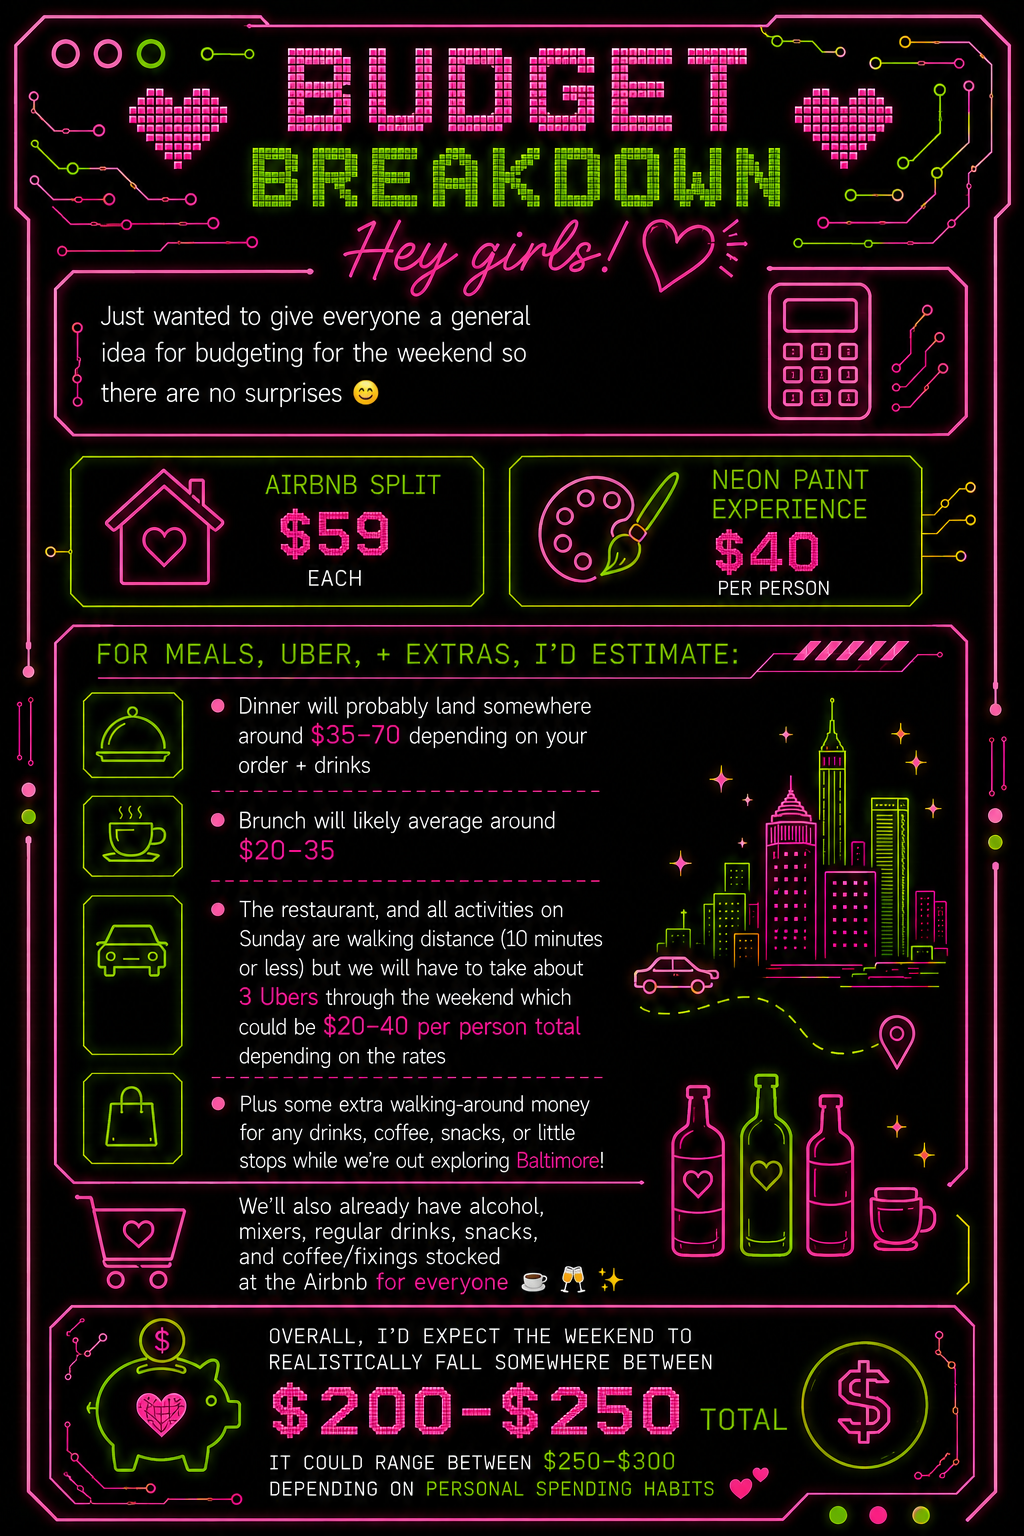
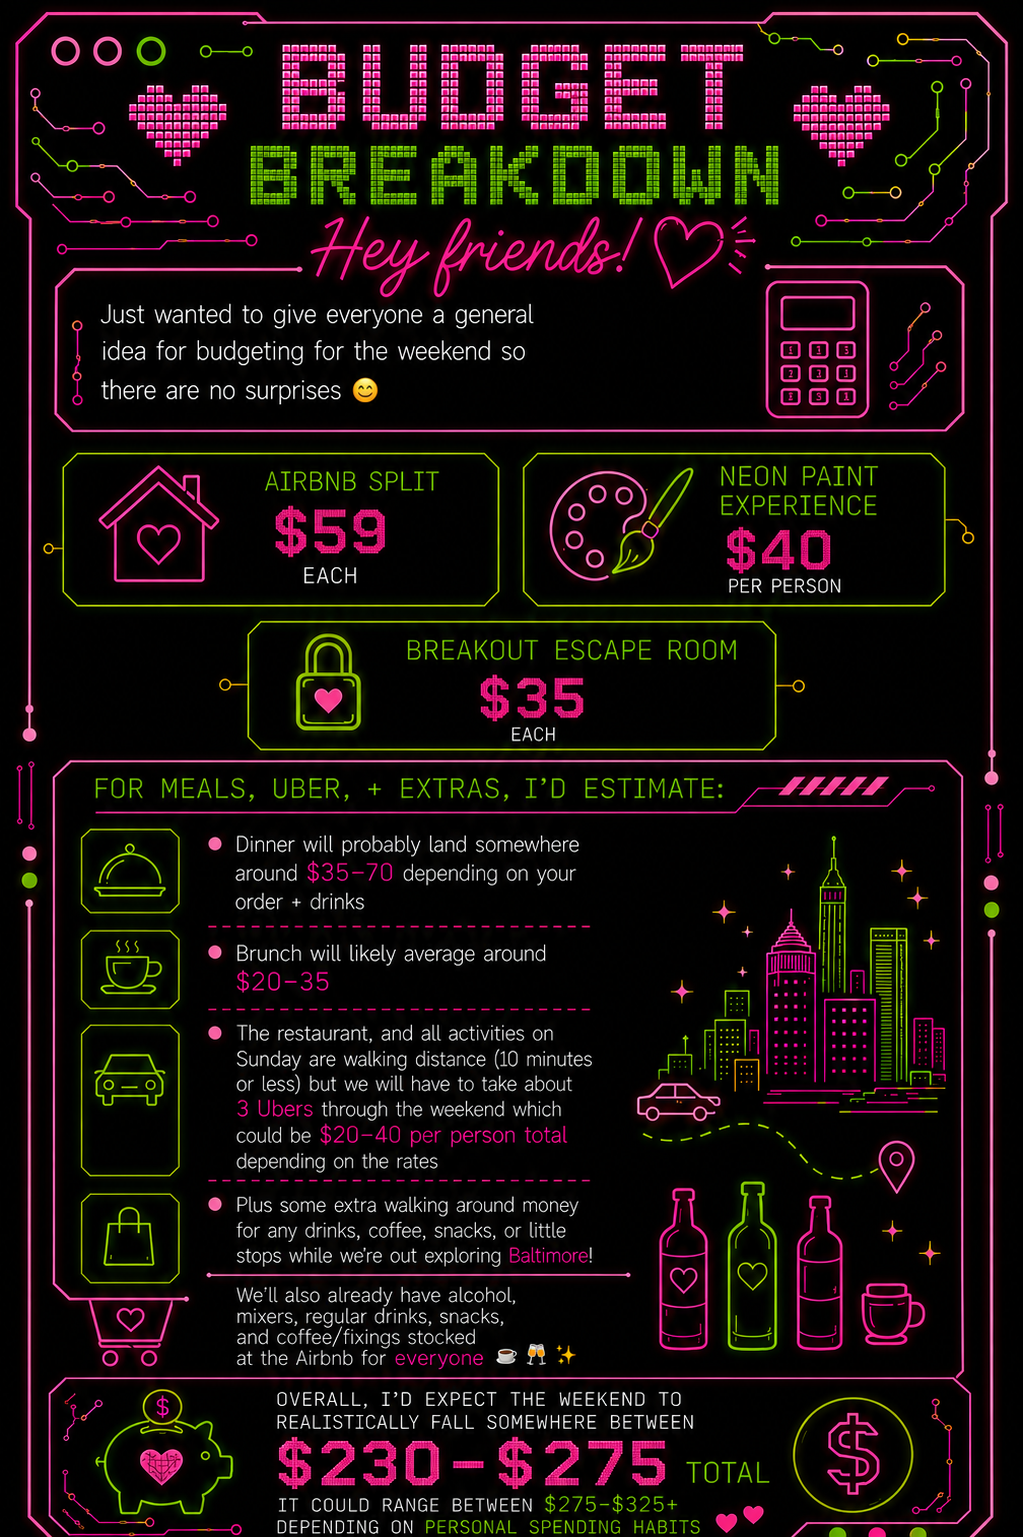
initial bridesquad portal

Changed region(s): [[0.0, 0.0, 1.0, 1.0]]

diff --git a/app/page.tsx b/app/page.tsx
@@ -40,17 +40,17 @@ export default function KatinaAccessPortal() {
             </h2>
 
             <p className="text-xl text-pink-300 mb-8">
-              Enter the password to unlock the invitation and access all the details for Katina’s Bachelorette Weekend ✨
+             Answer the security question to unlock the invitation and access all the details for Katina’s Bachelorette Weekend ✨
             </p>
 
             <div className="max-w-xl mx-auto">
               <p className="text-white text-2xl mb-6">
-                Who are we celebrating this bachelorette weekend?
+                Mission access requires bride identification.
               </p>
 
               <input
                 type="text"
-                placeholder="Enter password..."
+                placeholder="Enter codeword..."
                 value={password}
                 onChange={(e) => setPassword(e.target.value)}
                 className="w-full bg-black border border-pink-500 rounded-xl px-5 py-4 text-white text-lg mb-4"
